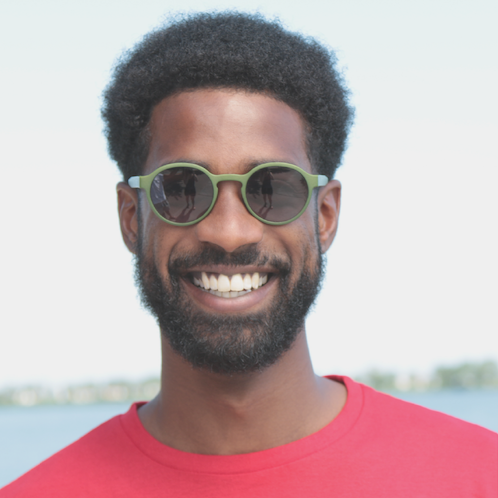
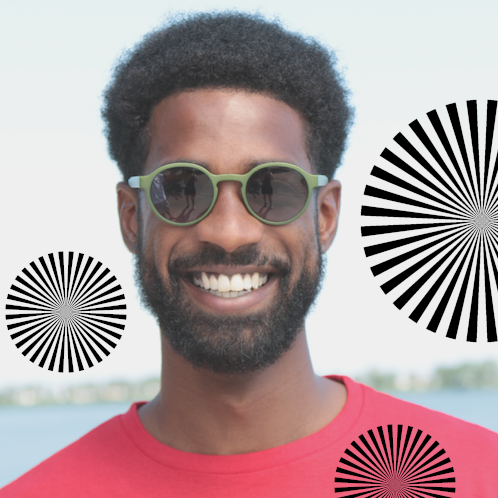
Update basic face asset. Add missing readme entry.

Changed region(s): [[0.7229, 0.1807, 1.0, 0.6928], [0.0, 0.4819, 0.2711, 0.753], [0.6627, 0.8434, 0.9337, 1.0]]

diff --git a/02_Multimedia/05_OpenVINO_GPU/main.cpp b/02_Multimedia/05_OpenVINO_GPU/main.cpp
@@ -53,13 +53,13 @@ int main(int argc, char* argv[]) {
     CLI::App app{"A3_2 OpenVINO GPU — Selfie segmentation RemoteTensor + bokeh blur"};
     std::string input_path;
     std::string model_path = "assets/selfie_segmentation.onnx";
-    float       threshold  = 0.5f;
+    float       threshold  = 0.6f;
 
     app.add_option("--input",     input_path, "Path to input image (BMP/PNG/JPG)")->required();
     app.add_option("--model",     model_path, "Path to ONNX model")
         ->default_val("assets/selfie_segmentation.onnx");
-    app.add_option("--threshold", threshold,  "Mask threshold (0.0–1.0, default 0.5)")
-        ->default_val(0.5f);
+    app.add_option("--threshold", threshold,  "Mask threshold (0.0–1.0, default 0.6)")
+        ->default_val(0.6f);
     int runs = 5;
     app.add_option("--runs", runs, "Number of inference iterations (default 5)")
         ->default_val(5);

diff --git a/README.md b/README.md
@@ -98,6 +98,7 @@ A collection of "on-demand" optimization techniques. Projects link here when the
 *   [07_Global_Work_Offset](05_Toolbox/07_Global_Work_Offset/) - Global work offset for sub-region dispatch.
 *   [08_Multi_GPU_Strategy](05_Toolbox/08_Multi_GPU_Strategy/) - Multi-GPU distribution strategies.
 *   [09_OpenCL_vs_CUDA](05_Toolbox/09_OpenCL_vs_CUDA/) - Performance and portability comparison.
+*   [11_SVM_Theory](05_Toolbox/11_SVM_Theory/) - Shared Virtual Memory deep dive.
 *   [12_Sync_Atomics](05_Toolbox/12_Sync_Atomics/) - Atomic operations and synchronization.
 *   [13_Thread_Divergence](05_Toolbox/13_Thread_Divergence/) - Reducing warp/wavefront divergence.
 *   [14_Work_Group_Sizing](05_Toolbox/14_Work_Group_Sizing/) - Occupancy and work-group sizing.
@@ -161,7 +162,6 @@ This repository is optimized for collaboration with AI assistants.
 ## TODO
 
 - Add links to external resources for more in depth information
-- Add better asset with selfie - blur is not clearly visible
 - **[Feature] `cl::Buffer` sub-buffers — parallel band processing**: Slice a large frame into N horizontal bands; each band is a sub-buffer aliasing the same allocation, dispatched independently (separate queues for parallel execution). Natural motivation for work partitioning and memory aliasing without copies. Precursor to multi-GPU distribution. Candidate exercise: 4 horizontal strips on a 1080p image, benchmark vs. single full-frame dispatch.
 - **[Feature] GPU-built BVH (LBVH via Morton codes)**: After B3's CPU SAH-BVH, add a challenge variant that constructs the BVH entirely on the GPU using Morton-code sorting + radix sort → parallel hierarchy build. Enables per-frame rebuild for dynamic scenes without CPU round-trip. Natural follow-on to B3 Challenge (Phase 4).= {W/2, H/2}`. Compare against single dispatch with explicit offset arithmetic inside the kernel body.
 - Consider ROS2 related examples to integrate with ROS world better(launch files, service to restart static publisher, parameters handling, loaned messages runtime setup and verification etc.)
